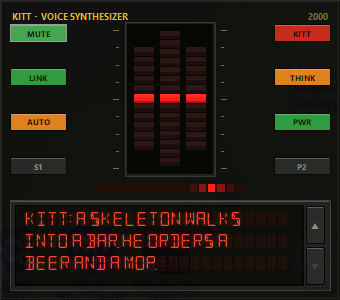
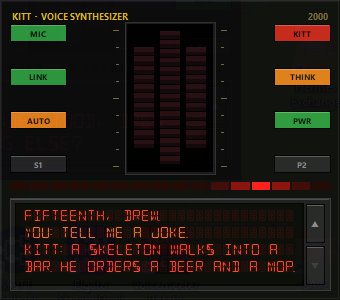
Echo guard, smaller LCD font (4 lines), full-width scanner bar
- audio: mic is silenced toward the agent while agent audio is playing plus a
  450 ms tail (default on; config barge_in=true or the tray toggle disables it)
- LCD: DSEG 11 px, 17 px lines, four visible lines in the same footprint
- scanner bar spans the LCD bezel width

diff --git a/mouthpiece/tray.py b/mouthpiece/tray.py
@@ -194,6 +194,14 @@ class App:
         else:
             self.leave()
 
+    def toggle_barge_in(self) -> None:
+        self.cfg.barge_in = not self.cfg.barge_in
+        self.cfg.raw["barge_in"] = self.cfg.barge_in
+        CONFIG_PATH.write_text(json.dumps(self.cfg.raw, indent=2), encoding="utf-8")
+        if self.session:
+            self.session.set_barge_in(self.cfg.barge_in)
+        log.info("barge-in %s (echo guard %s)", "on" if self.cfg.barge_in else "off", "off" if self.cfg.barge_in else "on")
+
     def cancel_reply(self) -> None:
         if self.session:
             self._call(self.session.cancel_reply())
@@ -292,6 +300,8 @@ class App:
                              checked=lambda item: bool(self.session and self.session.muted), visible=in_room),
             pystray.MenuItem("Stop talking", lambda: self.cancel_reply(),
                              visible=lambda item: self.state == State.SPEAKING),
+            pystray.MenuItem("Allow interruptions (barge-in)", lambda: self.toggle_barge_in(),
+                             checked=lambda item: self.cfg.barge_in),
             pystray.Menu.SEPARATOR,
             pystray.MenuItem("Bot", pystray.Menu(bot_items)),
             pystray.MenuItem("Microphone device", self._device_menu("input")),

diff --git a/mouthpiece/audio.py b/mouthpiece/audio.py
@@ -46,6 +46,11 @@ class AudioIO:
             auto_gain_control=auto_gain_control,
         )
         self.muted = False
+        # Echo guard: when True, the mic is silenced toward the agent while agent audio is
+        # playing (plus a short tail). Kills barge-in, but also kills the bot hearing itself.
+        self.gate_while_playing = True
+        self.gate_tail_s = 0.45
+        self.gated = False        # True while the guard is currently silencing the mic
         self.mic_level = 0.0      # 0..1 RMS of what we send
         self.speaker_level = 0.0  # 0..1 RMS of what we play
         self._play = deque()      # int16 numpy chunks from the agent
@@ -129,7 +134,9 @@ class AudioIO:
             self.apm.process_stream(frame)
         except Exception as e:  # never let the audio thread die
             log.debug("apm process_stream: %s", e)
-        if self.muted:
+        playing = self.gate_while_playing and (time.monotonic() - self._last_play_ts) < self.gate_tail_s
+        self.gated = playing and not self.muted
+        if self.muted or playing:
             frame = rtc.AudioFrame(data=bytes(len(pcm) * 2), sample_rate=RATE, num_channels=CHANNELS, samples_per_channel=len(pcm))
             self.mic_level = 0.0
         else:

diff --git a/mouthpiece/stage/lcd.py b/mouthpiece/stage/lcd.py
@@ -16,8 +16,8 @@ LCD_BG = "#070707"
 LCD_GHOST = (60, 10, 8)          # unlit segment ghosting
 LCD_TEXT = (255, 70, 50)
 LCD_GLOW = (255, 40, 20)
-LINE_H = 22
-FONT_PX = 14
+LINE_H = 17
+FONT_PX = 11
 PAD_X = 8
 PAD_Y = 6
 
@@ -99,7 +99,7 @@ class LcdRenderer:
                 col = LCD_TEXT if is_bot else (235, 120, 60)
                 gd.text((PAD_X, y), text, font=self.font, fill=LCD_GLOW + (170,))
                 cd.text((PAD_X, y), text, font=self.font, fill=col + (255,))
-            glow = glow.filter(ImageFilter.GaussianBlur(3))
+            glow = glow.filter(ImageFilter.GaussianBlur(2.5))
             img = Image.alpha_composite(img.convert("RGBA"), glow)
             img = Image.alpha_composite(img, crisp).convert("RGB")
         self._cache_key, self._cache_img = key, img

diff --git a/mouthpiece/session.py b/mouthpiece/session.py
@@ -144,6 +144,7 @@ class VoiceSession:
                              echo_cancellation=self.cfg.echo_cancellation,
                              noise_suppression=self.cfg.noise_suppression,
                              auto_gain_control=self.cfg.auto_gain_control)
+        self.audio.gate_while_playing = not self.cfg.barge_in
         try:
             self.audio.start()
         except Exception as e:
@@ -219,6 +220,10 @@ class VoiceSession:
         if self.room:
             await self._send(TOPIC_EXT, {"type": "hermes.input_audio.state", "muted": muted})
         self._emit("muted", {"muted": muted})
+
+    def set_barge_in(self, enabled: bool) -> None:
+        if self.audio:
+            self.audio.gate_while_playing = not enabled
 
     @property
     def muted(self) -> bool:

diff --git a/mouthpiece/stage/kitt.py b/mouthpiece/stage/kitt.py
@@ -25,7 +25,7 @@ from .lcd import LINE_H, PAD_Y, LcdRenderer
 MID_SEGS = 15
 SIDE_SEGS = 11
 BAR_SEGS = 16
-LCD_LINES = 3
+LCD_LINES = 4
 
 CORE_RED = "#FF1A1A"
 TIP_RED = "#6E0810"
@@ -176,8 +176,8 @@ class KittSkin:
 
         # scanner bar
         by0 = well_top + well_h + 10
-        bar_w = well_w + 60
-        self._paint_bar(cv, (w - bar_w) / 2, by0, bar_w, bar_h, busy=(state == "thinking"), sweeping=(state == "listening"))
+        bar_w = w - 2 * pad          # same width as the LCD bezel below
+        self._paint_bar(cv, pad, by0, bar_w, bar_h, busy=(state == "thinking"), sweeping=(state == "listening"))
 
         # rails: tiles, some clickable
         rail_w = 56

diff --git a/mouthpiece/stage/window.py b/mouthpiece/stage/window.py
@@ -97,7 +97,8 @@ class StageWindow:
             self._scroll_by(1 if e.delta > 0 else -1)
 
     def _scroll_by(self, n: int) -> None:
-        mx = self.skin.lcd.max_scroll(self.skin.lcd_total_lines, 3)
+        from .kitt import LCD_LINES
+        mx = self.skin.lcd.max_scroll(self.skin.lcd_total_lines, LCD_LINES)
         self.scroll = max(0, min(mx, self.scroll + n))
 
     def _press(self, e) -> None:

diff --git a/mouthpiece/config.py b/mouthpiece/config.py
@@ -31,6 +31,7 @@ class Config:
     echo_cancellation: bool = True
     noise_suppression: bool = True
     auto_gain_control: bool = False
+    barge_in: bool = False        # False = echo guard on (mic silenced while the bot talks)
     log_file: str = "mouthpiece.log"
     bots: list[Bot] = field(default_factory=list)
     raw: dict = field(default_factory=dict, repr=False)
